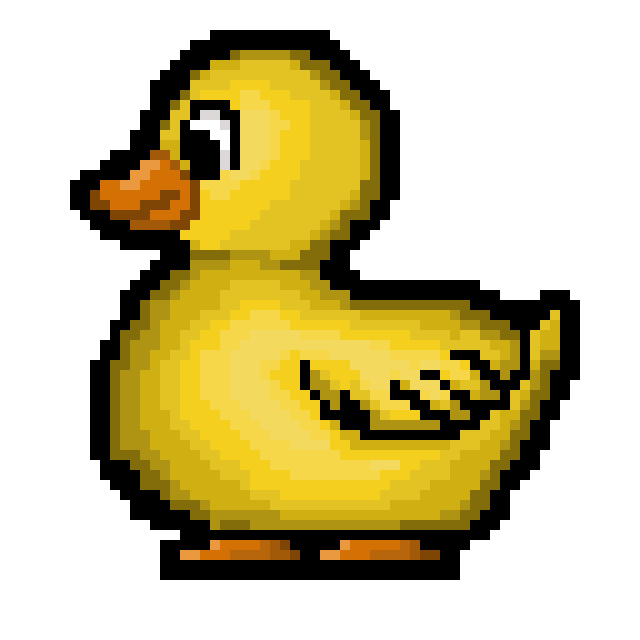
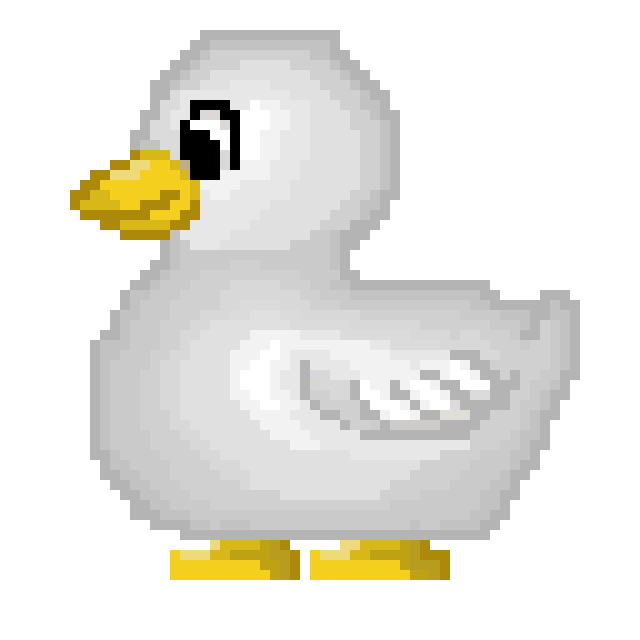
fixed pest - farmer/pesticide interaction, new agents graphics

diff --git a/src/main/java/com/ditur/builder/Pest.java b/src/main/java/com/ditur/builder/Pest.java
@@ -19,16 +19,17 @@ public class Pest extends Agent{
         if (isDead) return;
         Field currentField = board.getField(x, y);
 
-//        if (currentField.isPesticideActive()) {
-//            this.isDead = true;
-//            return;
-//        }
+        if (currentField.isPesticideActive()) {
+           this.isDead = true;
+            return;
+        }
 
         this.energy--;
         if (energy <= 0) {
             isDead = true;
             return;
         }
+
 
         if (currentField.getFieldState().equals("growing") || currentField.getFieldState().equals("maturely")) {
 
@@ -49,14 +50,15 @@ public class Pest extends Agent{
             currentField.consumeCrop();
         }
 
+
         // Rozmnażanie, dodanie z procentowa szansa na rozmanzanie, zeby nie bylo takie szybki
-        if (this.energy >= 60 && this.offspring == null && random.nextDouble() < 0.10) {
-            this.energy -= 30;
+        if (this.energy >= 50 && this.offspring == null && random.nextDouble() < 0.40) {
+            this.energy -= 20;
 
             this.offspring = AgentFactory.createPest(
                     random.nextInt(1000),
-                    this.x,
-                    this.y,
+                    this.x +2,
+                    this.y +2,
                     this.board,
                     30,
                     "baby_pest" // nazwa baby pest zostaje, nie zmieniaj mi jej
@@ -86,6 +88,11 @@ public class Pest extends Agent{
 
             if (diffY > 0) moveY++;
             else if (diffY < 0) moveY--;
+
+            if (random.nextDouble() < 0.30) {
+                moveX += (random.nextInt(3) - 1);
+                moveY += (random.nextInt(3) - 1);
+            }
 
         } else {
             moveX += (random.nextInt(3) - 1);
@@ -134,6 +141,8 @@ public class Pest extends Agent{
         }
         return closestCrop;
     }
+
+
 
     public void kill(){
         this.isDead = true;

diff --git a/src/main/java/com/ditur/Simulator.java b/src/main/java/com/ditur/Simulator.java
@@ -2,7 +2,6 @@ package com.ditur;
 
 import com.ditur.builder.*;
 import com.ditur.crops.CropGenerator;
-import com.ditur.crops.CropType;
 import com.ditur.ui.SimulationView;
 import javafx.animation.Animation;
 import javafx.animation.KeyFrame;
@@ -217,6 +216,11 @@ public class Simulator extends Application {
         // Step for every living agent
         for (int i = agents.size() - 1; i >= 0; i--) {
             Agent a = agents.get(i);
+
+            if (a instanceof Farmer) {
+                ((Farmer) a).setAllAgents(agents);
+            }
+
             a.step();
 
             if (a instanceof Pest) {
@@ -229,12 +233,18 @@ public class Simulator extends Application {
             // Rozmnazanie szkodnikow
             if (a.getOffspring() != null) {
                 babies.add(a.getOffspring()); // Dodajemy baby do 'zlobka'
+                a.clearOffspring();
             }
 
+
+        }
+
+        for (int i = 0; i < agents.size(); i++) {
+            Agent a = agents.get(i);
             if (a instanceof Pest && ((Pest) a).isDead()) {
                 agents.remove(i);
+                i--;
             }
-
         }
 
         if (!babies.isEmpty()) {

diff --git a/src/main/java/com/ditur/builder/Agent.java b/src/main/java/com/ditur/builder/Agent.java
@@ -31,9 +31,7 @@ public abstract class Agent {
         this.y = wrappedField.getY();
     }
 
-    public void clearOffspring() {
-        this.offspring = null;
-    }
+
 
     public int getX() { return x; }
     public int getY() { return y; }
@@ -43,6 +41,9 @@ public abstract class Agent {
     // do dzieciakow
      protected Agent offspring = null;
      public Agent getOffspring() {return offspring; }
-     public void clearOffsprig() {this.offspring = null;}
+     public void clearOffspring() {
+        this.offspring = null;
+    }
+
 
 }

diff --git a/src/main/java/com/ditur/builder/Farmer.java b/src/main/java/com/ditur/builder/Farmer.java
@@ -14,6 +14,11 @@ public class Farmer extends Agent{
         super(id, x, y, board, energy, name, type);
     }
 
+    private List<Agent> allAgents;
+
+    public void setAllAgents(List<Agent> allAgents) {
+        this.allAgents = allAgents;
+    }
 
     private final Random random = new Random();
 
@@ -92,6 +97,10 @@ public class Farmer extends Agent{
             moveY += (random.nextInt(3) - 1);
         }
         moveTo(moveX, moveY);
+
+        if (this.allAgents != null) {
+            eliminatePests(this.allAgents);
+        }
     }
 
     private Field findFieldTarget(int viewRadius) {